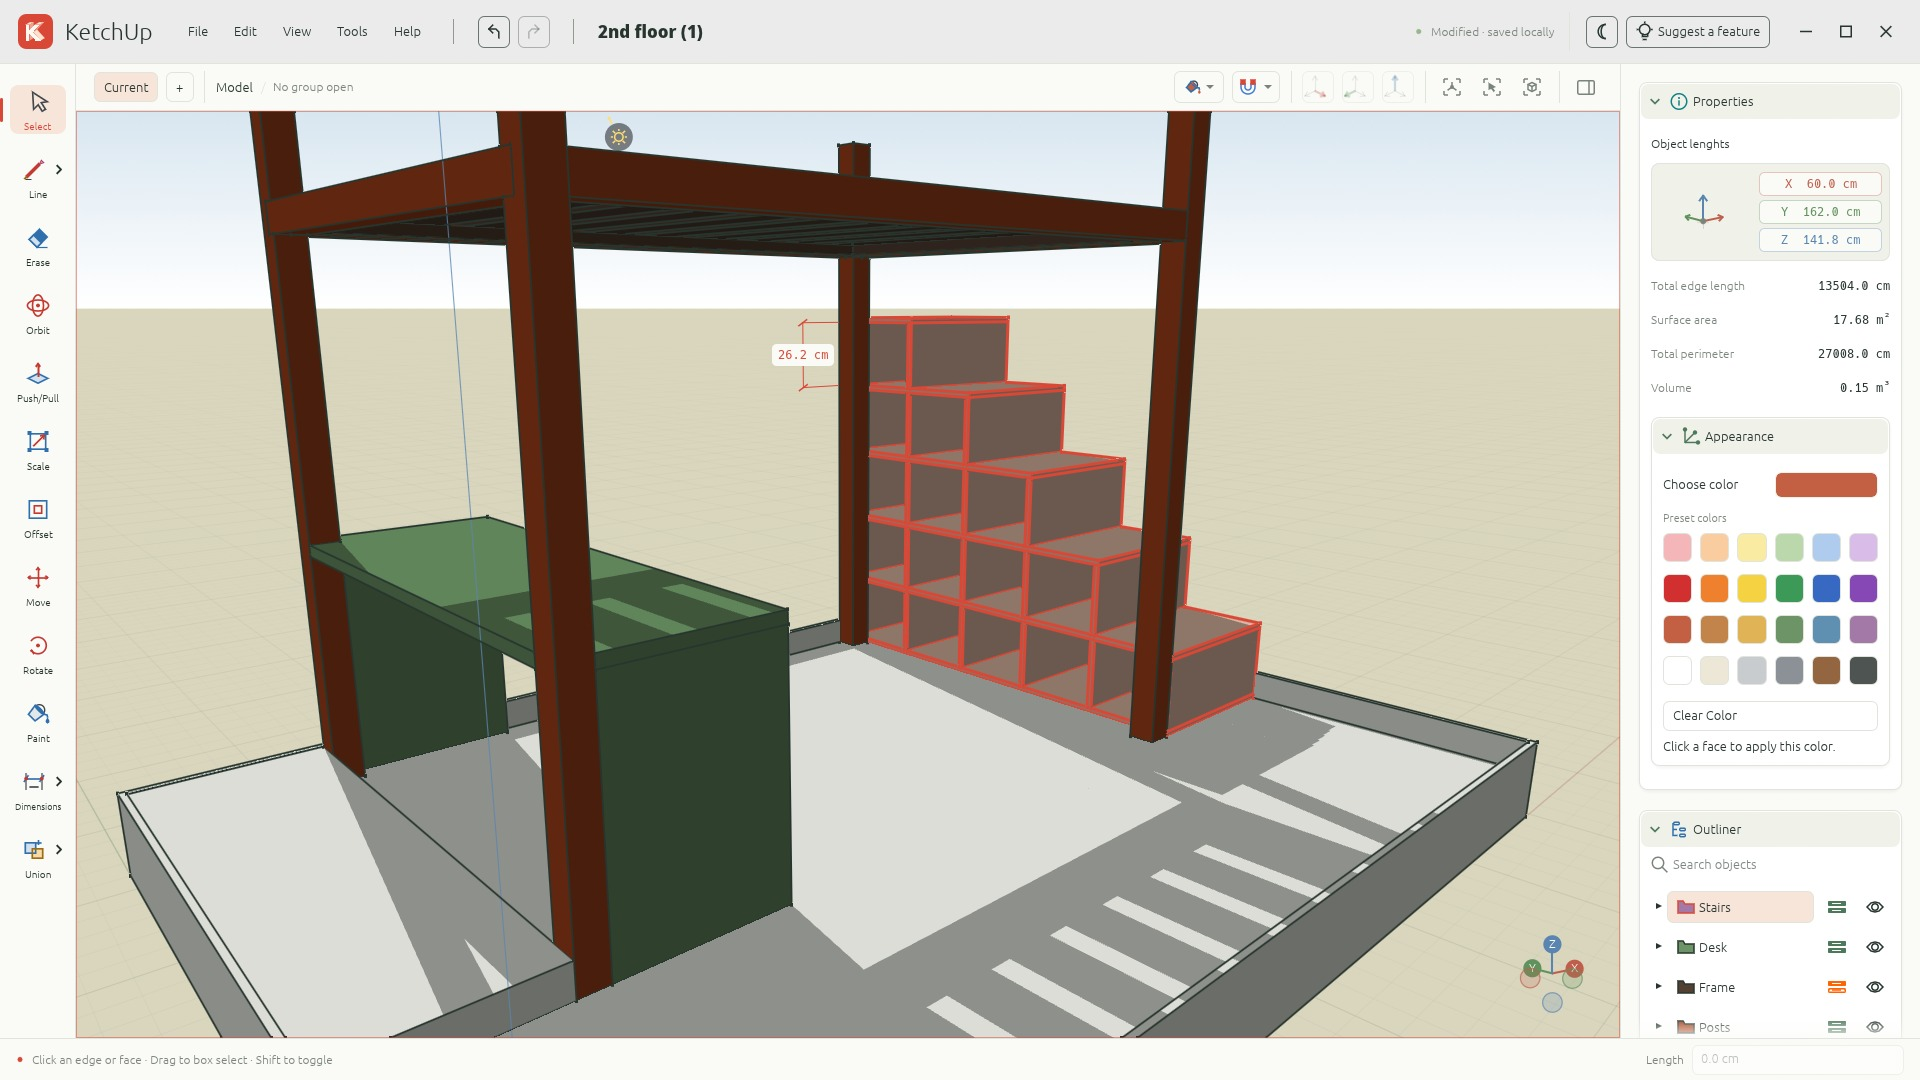
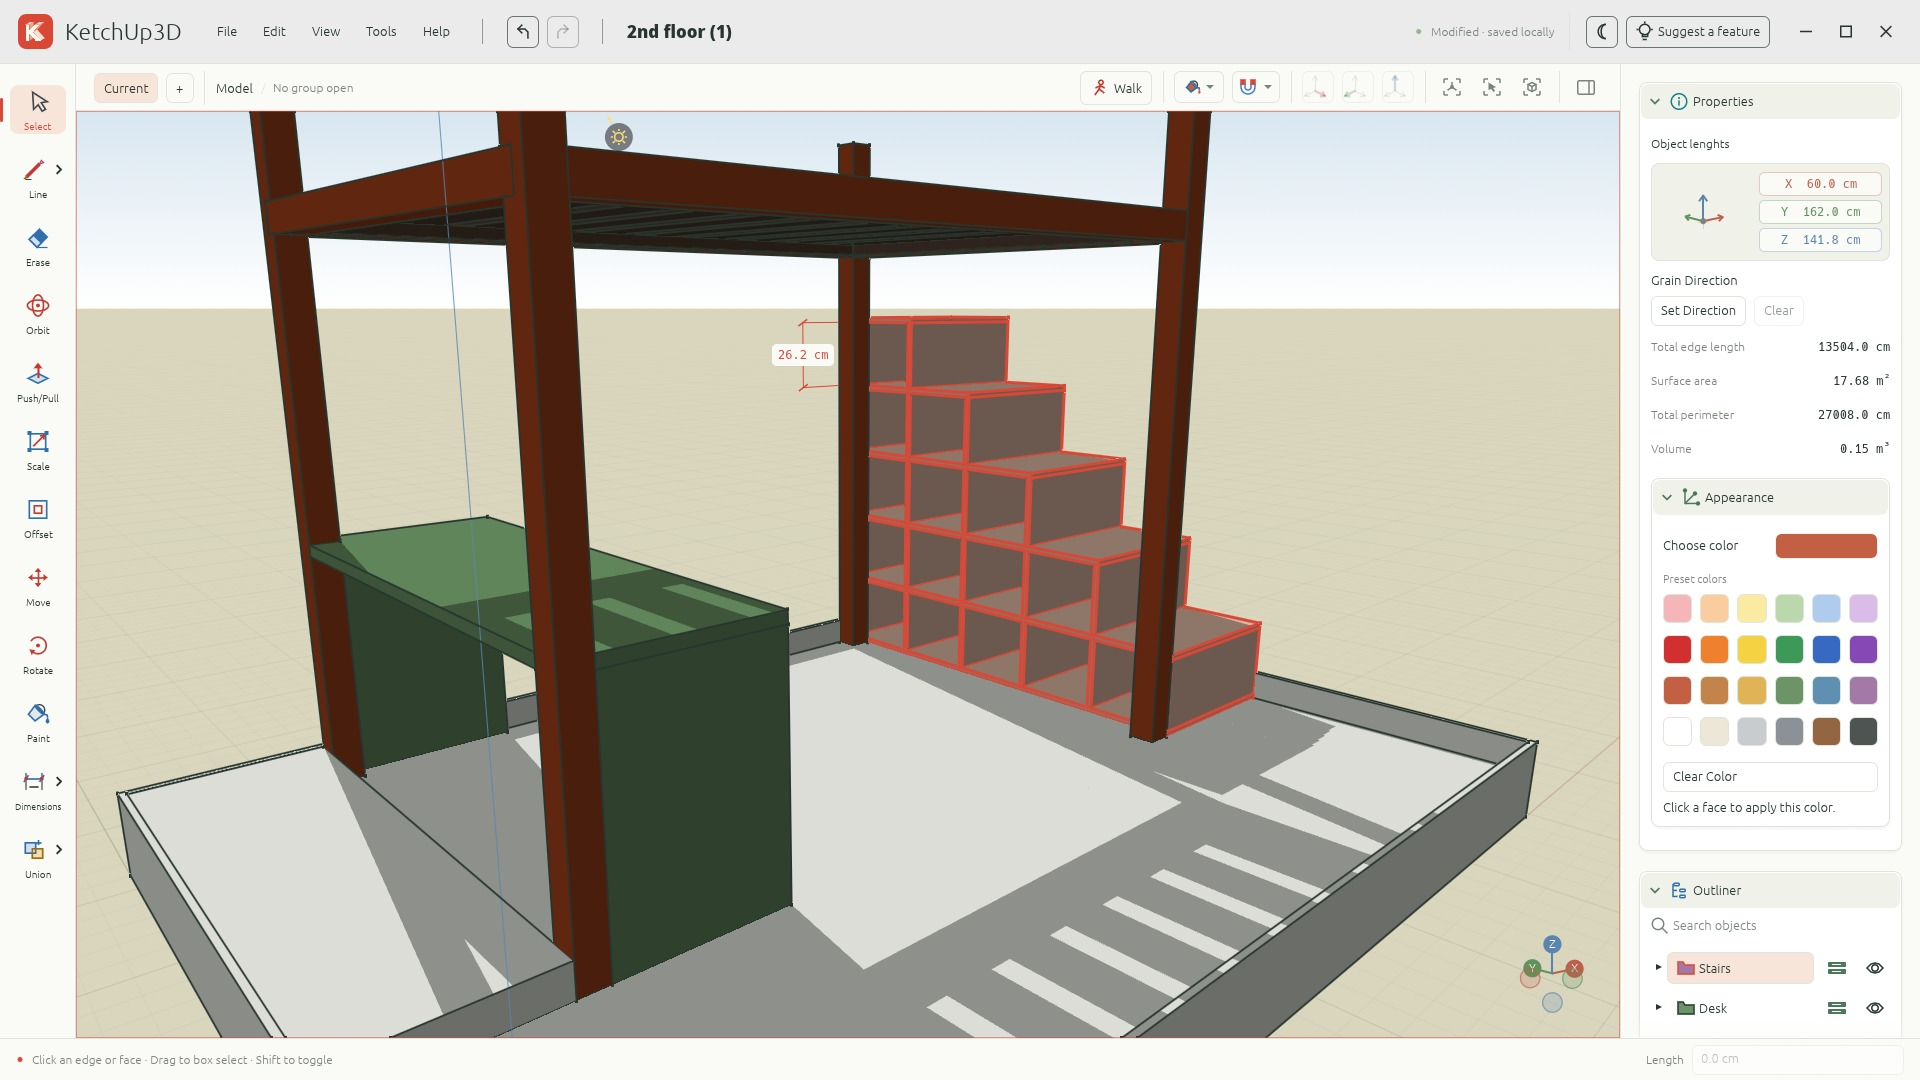
Release BenchUp 0.6.6

diff --git a/site/index.html b/site/index.html
@@ -13,8 +13,8 @@
     <meta property="og:url" content="https://benchup3d.github.io/editor/" />
     <meta property="og:site_name" content="BenchUp" />
     <meta property="og:locale" content="en_US" />
-    <meta property="og:image" content="https://benchup3d.github.io/editor/assets/screenshots/benchup.jpg?v=0.6.5-r2" />
-    <meta property="og:image:secure_url" content="https://benchup3d.github.io/editor/assets/screenshots/benchup.jpg?v=0.6.5-r2" />
+    <meta property="og:image" content="https://benchup3d.github.io/editor/assets/screenshots/benchup.jpg?v=0.6.6" />
+    <meta property="og:image:secure_url" content="https://benchup3d.github.io/editor/assets/screenshots/benchup.jpg?v=0.6.6" />
     <meta property="og:image:type" content="image/jpeg" />
     <meta property="og:image:width" content="1920" />
     <meta property="og:image:height" content="1080" />
@@ -22,7 +22,7 @@
     <meta name="twitter:card" content="summary_large_image" />
     <meta name="twitter:title" content="BenchUp — Free 3D Woodworking &amp; Furniture Design App" />
     <meta name="twitter:description" content="Free, open-source 3D woodworking and furniture design with wood joinery, grain orientation, cutting plans, and cost estimates. On desktop or in your browser." />
-    <meta name="twitter:image" content="https://benchup3d.github.io/editor/assets/screenshots/benchup.jpg?v=0.6.5-r2" />
+    <meta name="twitter:image" content="https://benchup3d.github.io/editor/assets/screenshots/benchup.jpg?v=0.6.6" />
     <meta name="twitter:image:alt" content="BenchUp editor showing a loft bed model, drawing tools, and model controls." />
     <title>BenchUp — Free 3D Woodworking &amp; Furniture Design App</title>
     <link rel="icon" type="image/svg+xml" href="assets/branding/logo.svg" />
@@ -50,7 +50,7 @@
   "screenshot": [
     {
       "@type": "ImageObject",
-      "url": "https://benchup3d.github.io/editor/assets/screenshots/benchup.jpg?v=0.6.5-r2",
+      "url": "https://benchup3d.github.io/editor/assets/screenshots/benchup.jpg?v=0.6.6",
       "width": 1920,
       "height": 1080
     },
@@ -102,7 +102,7 @@
           </div>
         </div>
         <figure class="workspace-preview">
-          <img src="assets/screenshots/benchup.jpg?v=0.6.5-r2" alt="BenchUp’s 3D editor showing a loft bed model, with drawing tools on the left and model controls on the right." width="1920" height="1080" fetchpriority="high" />
+          <img src="assets/screenshots/benchup.jpg?v=0.6.6" alt="BenchUp’s 3D editor showing a loft bed model, with drawing tools on the left and model controls on the right." width="1920" height="1080" fetchpriority="high" />
           <figcaption><span>A little sketch. A whole new dimension.</span><span>Actual BenchUp workspace</span></figcaption>
         </figure>
       <div class="downloads" id="downloads" role="group" aria-label="Download the latest desktop release">

diff --git a/scripts/capture_readme_desktop.py b/scripts/capture_readme_desktop.py
@@ -159,11 +159,15 @@ def main():
         with tempfile.TemporaryDirectory(prefix="benchup-readme-desktop-") as folder:
             profile = Path(folder)
             shutil.copyfile(ROOT / "assets/examples/Example.bup", profile / "model.json")
+            # Pre-rename executables also need an isolated example profile.
             environment = dict(os.environ, BENCHUP_DATA_DIR=folder,
+                KETCHUP_DATA_DIR=folder,
                 XDG_DATA_HOME=str(profile / "data"), XDG_CONFIG_HOME=str(profile / "config"),
                 XDG_CACHE_HOME=str(profile / "cache"), WINIT_UNIX_BACKEND="x11")
             for key in ("WAYLAND_DISPLAY", "BENCHUP_VIEWPORT_BENCHMARK",
-                        "BENCHUP_BENCH_EDIT_JOINERY", "BENCHUP_BENCH_PROFILE"):
+                        "BENCHUP_BENCH_EDIT_JOINERY", "BENCHUP_BENCH_PROFILE",
+                        "KETCHUP_VIEWPORT_BENCHMARK", "KETCHUP_BENCH_EDIT_JOINERY",
+                        "KETCHUP_BENCH_PROFILE"):
                 environment.pop(key, None)
             with (profile / "application.log").open("w+") as log:
                 process = subprocess.Popen([str(binary)], cwd=ROOT, env=environment,

diff --git a/README.md b/README.md
@@ -1,6 +1,6 @@
 # BenchUp
 
-![BenchUp editor screenshot](assets/screenshots/ketchup.jpg)
+![BenchUp editor screenshot](assets/screenshots/benchup.jpg)
 
 [![Try BenchUp in your browser](https://img.shields.io/badge/Try_BenchUp_in_your_browser-d63b32?style=for-the-badge)](https://benchup3d.github.io/editor/play/)
 
